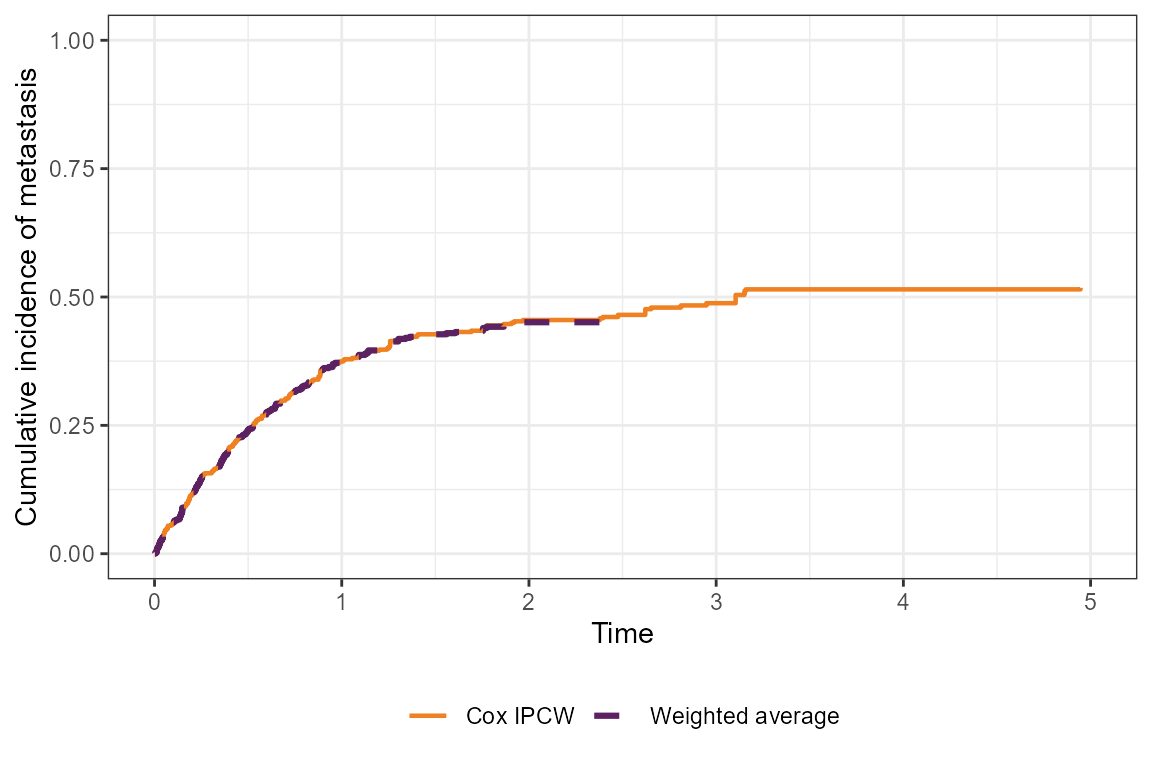
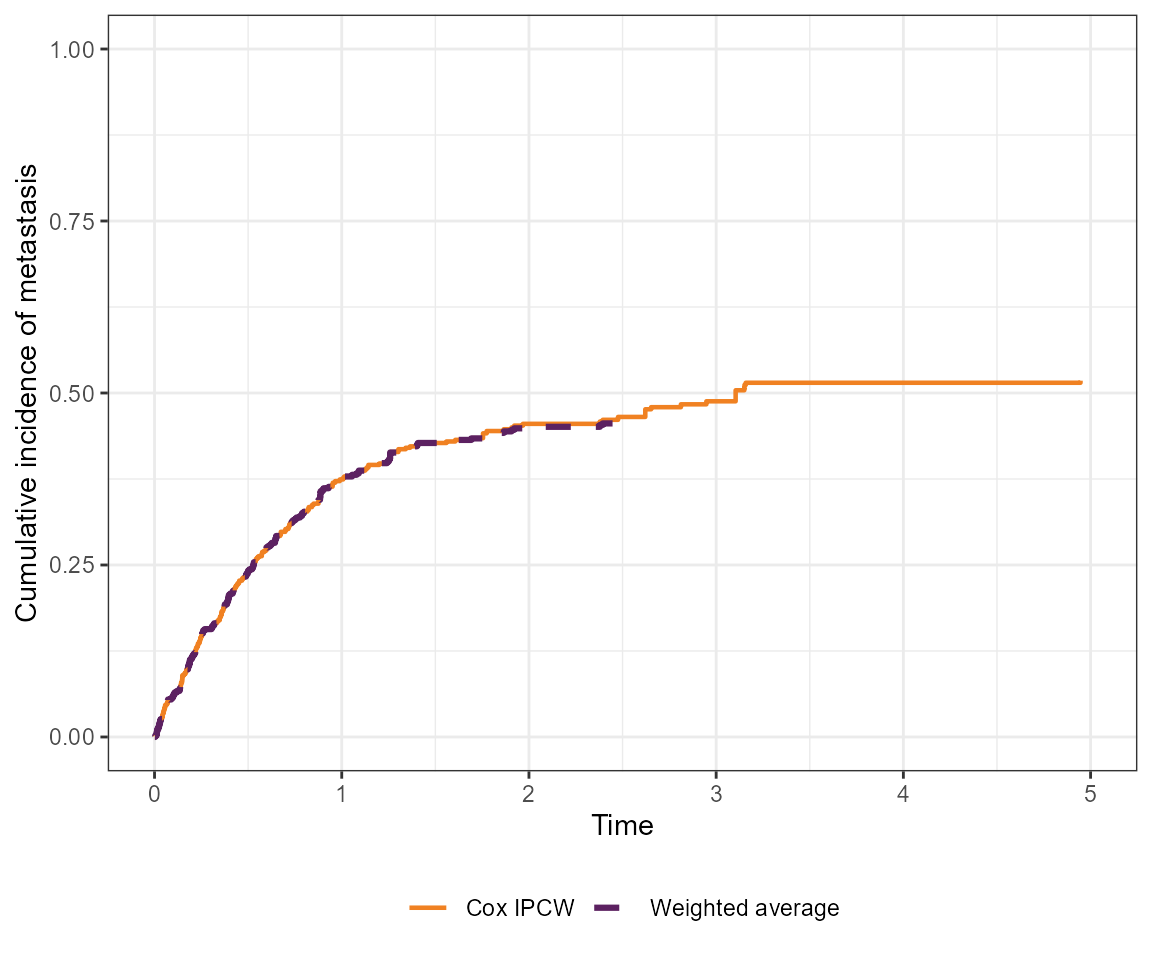
Anne's updates

diff --git a/docs/articles/competing-risks-guided-example.html b/docs/articles/competing-risks-guided-example.html
@@ -184,14 +184,14 @@ to use stratified (non-parametric) weights (when
 cumulative incidence curves in this example.</p>
 </div>
 <div class="section level2">
-<h2 id="fine-gray-ipcw-regression">Fine-Gray IPCW regression<a class="anchor" aria-label="anchor" href="#fine-gray-ipcw-regression"></a>
+<h2 id="fine-gray-regression">Fine-Gray regression<a class="anchor" aria-label="anchor" href="#fine-gray-regression"></a>
 </h2>
 <p>Next, estimate the subdistribution hazard ratio (SHR) for the
 association between baseline PSA and metastasis, accounting for the
 competing risk of death and dependent censoring.</p>
 <p>The <code><a href="../reference/fg_split_cr.html">fg_split_cr()</a></code> function splits the data into
 event-specific datasets, and the <code><a href="../reference/add_fg_weights_cr.html">add_fg_weights_cr()</a></code>
-function computes IPCW weights for Fine-Gray regression. The
+function computes weights for Fine-Gray regression. The
 <code><a href="../reference/fg_weighted_cr.html">fg_weighted_cr()</a></code> function fits a weighted Fine-Gray
 model.</p>
 <div class="sourceCode" id="cb6"><pre class="downlit sourceCode r">
@@ -220,7 +220,7 @@ model.</p>
 <span>  <span class="op">)</span> <span class="op">|&gt;</span> </span>
 <span>  <span class="fu"><a href="https://gt.rstudio.com/reference/gt.html" class="external-link">gt</a></span><span class="op">(</span><span class="op">)</span> <span class="op">|&gt;</span> </span>
 <span>  <span class="fu"><a href="https://gt.rstudio.com/reference/fmt_number.html" class="external-link">fmt_number</a></span><span class="op">(</span>columns <span class="op">=</span> <span class="st">"Estimate"</span>, decimals <span class="op">=</span> <span class="fl">2</span><span class="op">)</span> <span class="op">|&gt;</span></span>
-<span>  <span class="fu"><a href="https://gt.rstudio.com/reference/tab_header.html" class="external-link">tab_header</a></span><span class="op">(</span><span class="st">"IPCW Fine-gray regression results for the association between PSA and metastasis, using both stratified and Cox IPCW weights"</span><span class="op">)</span> </span></code></pre></div>
+<span>  <span class="fu"><a href="https://gt.rstudio.com/reference/tab_header.html" class="external-link">tab_header</a></span><span class="op">(</span><span class="st">"Fine-gray regression results for the association between PSA and metastasis, using both stratified and Cox weights"</span><span class="op">)</span> </span></code></pre></div>
 <div id="gqdbmcporn" style="padding-left:0px;padding-right:0px;padding-top:10px;padding-bottom:10px;overflow-x:auto;overflow-y:auto;width:auto;height:auto;">
 <style>#gqdbmcporn table {
   font-family: system-ui, 'Segoe UI', Roboto, Helvetica, Arial, sans-serif, 'Apple Color Emoji', 'Segoe UI Emoji', 'Segoe UI Symbol', 'Noto Color Emoji';
@@ -673,7 +673,7 @@ model.</p>
 <table class="table gt_table" data-quarto-disable-processing="false" data-quarto-bootstrap="false">
 <thead>
 <tr class="gt_heading">
-<td colspan="3" class="gt_heading gt_title gt_font_normal gt_bottom_border" style>IPCW Fine-gray regression results for the association between PSA and metastasis, using both stratified and Cox IPCW weights</td>
+<td colspan="3" class="gt_heading gt_title gt_font_normal gt_bottom_border" style>Fine-gray regression results for the association between PSA and metastasis, using both stratified and Cox weights</td>
     </tr>
 <tr class="gt_col_headings">
 <th class="gt_col_heading gt_columns_bottom_border gt_left" rowspan="1" colspan="1" scope="col" id="Method">Method</th>
@@ -769,7 +769,7 @@ interval for each column of a matrix of bootstrap estimates, mirroring
 <span>    locations <span class="op">=</span> <span class="fu"><a href="https://gt.rstudio.com/reference/cells_column_labels.html" class="external-link">cells_column_labels</a></span><span class="op">(</span>columns <span class="op">=</span> <span class="fu"><a href="https://rdrr.io/r/base/c.html" class="external-link">c</a></span><span class="op">(</span><span class="va">Lower_95pct_PI</span>, <span class="va">Upper_95pct_PI</span><span class="op">)</span><span class="op">)</span></span>
 <span>  <span class="op">)</span> <span class="op">|&gt;</span> </span>
 <span>  <span class="fu"><a href="https://gt.rstudio.com/reference/tab_header.html" class="external-link">tab_header</a></span><span class="op">(</span></span>
-<span>    <span class="st">"IPCW Fine-Gray regression results for the association between PSA quartile and metastasis, using stratified IPCW weights"</span></span>
+<span>    <span class="st">"Fine-Gray regression results for the association between PSA and metastasis, using stratified weights"</span></span>
 <span>  <span class="op">)</span></span></code></pre></div>
 <div id="auiemtckto" style="padding-left:0px;padding-right:0px;padding-top:10px;padding-bottom:10px;overflow-x:auto;overflow-y:auto;width:auto;height:auto;">
 <style>#auiemtckto table {
@@ -1223,7 +1223,7 @@ interval for each column of a matrix of bootstrap estimates, mirroring
 <table class="table gt_table" data-quarto-disable-processing="false" data-quarto-bootstrap="false">
 <thead>
 <tr class="gt_heading">
-<td colspan="4" class="gt_heading gt_title gt_font_normal gt_bottom_border" style>IPCW Fine-Gray regression results for the association between PSA quartile and metastasis, using stratified IPCW weights</td>
+<td colspan="4" class="gt_heading gt_title gt_font_normal gt_bottom_border" style>Fine-Gray regression results for the association between PSA and metastasis, using stratified weights</td>
     </tr>
 <tr class="gt_col_headings">
 <th class="gt_col_heading gt_columns_bottom_border gt_left" rowspan="1" colspan="1" scope="col" id="Effect">Effect</th>

diff --git a/docs/reference/fg_weighted_cr.html b/docs/reference/fg_weighted_cr.html
@@ -1,9 +1,9 @@
 <!DOCTYPE html>
-<!-- Generated by pkgdown: do not edit by hand --><html lang="en"><head><meta http-equiv="Content-Type" content="text/html; charset=UTF-8"><meta charset="utf-8"><meta http-equiv="X-UA-Compatible" content="IE=edge"><meta name="viewport" content="width=device-width, initial-scale=1, shrink-to-fit=no"><title>IPCW-weighted Fine-Gray sub-distribution hazard regression — fg_weighted_cr • ipcw</title><script src="../deps/jquery-3.6.0/jquery-3.6.0.min.js"></script><meta name="viewport" content="width=device-width, initial-scale=1, shrink-to-fit=no"><link href="../deps/bootstrap-5.3.1/bootstrap.min.css" rel="stylesheet"><script src="../deps/bootstrap-5.3.1/bootstrap.bundle.min.js"></script><link href="../deps/font-awesome-6.5.2/css/all.min.css" rel="stylesheet"><link href="../deps/font-awesome-6.5.2/css/v4-shims.min.css" rel="stylesheet"><script src="../deps/headroom-0.11.0/headroom.min.js"></script><script src="../deps/headroom-0.11.0/jQuery.headroom.min.js"></script><script src="../deps/bootstrap-toc-1.0.1/bootstrap-toc.min.js"></script><script src="../deps/clipboard.js-2.0.11/clipboard.min.js"></script><script src="../deps/search-1.0.0/autocomplete.jquery.min.js"></script><script src="../deps/search-1.0.0/fuse.min.js"></script><script src="../deps/search-1.0.0/mark.min.js"></script><!-- pkgdown --><script src="../pkgdown.js"></script><meta property="og:title" content="IPCW-weighted Fine-Gray sub-distribution hazard regression — fg_weighted_cr"><meta name="description" content="Fits a Fine-Gray model on the Fine-Gray split dataset, weighting by the
-inverse of the probability of remaining uncensored after the competing event
+<!-- Generated by pkgdown: do not edit by hand --><html lang="en"><head><meta http-equiv="Content-Type" content="text/html; charset=UTF-8"><meta charset="utf-8"><meta http-equiv="X-UA-Compatible" content="IE=edge"><meta name="viewport" content="width=device-width, initial-scale=1, shrink-to-fit=no"><title>FG-weighted Fine-Gray sub-distribution hazard regression — fg_weighted_cr • ipcw</title><script src="../deps/jquery-3.6.0/jquery-3.6.0.min.js"></script><meta name="viewport" content="width=device-width, initial-scale=1, shrink-to-fit=no"><link href="../deps/bootstrap-5.3.1/bootstrap.min.css" rel="stylesheet"><script src="../deps/bootstrap-5.3.1/bootstrap.bundle.min.js"></script><link href="../deps/font-awesome-6.5.2/css/all.min.css" rel="stylesheet"><link href="../deps/font-awesome-6.5.2/css/v4-shims.min.css" rel="stylesheet"><script src="../deps/headroom-0.11.0/headroom.min.js"></script><script src="../deps/headroom-0.11.0/jQuery.headroom.min.js"></script><script src="../deps/bootstrap-toc-1.0.1/bootstrap-toc.min.js"></script><script src="../deps/clipboard.js-2.0.11/clipboard.min.js"></script><script src="../deps/search-1.0.0/autocomplete.jquery.min.js"></script><script src="../deps/search-1.0.0/fuse.min.js"></script><script src="../deps/search-1.0.0/mark.min.js"></script><!-- pkgdown --><script src="../pkgdown.js"></script><meta property="og:title" content="FG-weighted Fine-Gray sub-distribution hazard regression — fg_weighted_cr"><meta name="description" content="Fits a Fine-Gray model on the Fine-Gray split dataset, weighting by the
+probability of remaining uncensored after the competing event
 (p_notcens_after_death), and uses a robust sandwich variance via
 cluster(id)."><meta property="og:description" content="Fits a Fine-Gray model on the Fine-Gray split dataset, weighting by the
-inverse of the probability of remaining uncensored after the competing event
+probability of remaining uncensored after the competing event
 (p_notcens_after_death), and uses a robust sandwich variance via
 cluster(id)."></head><body>
     <a href="#main" class="visually-hidden-focusable">Skip to contents</a>
@@ -40,14 +40,14 @@ cluster(id)."></head><body>
 <div class="row">
   <main id="main" class="col-md-9"><div class="page-header">
 
-      <h1>IPCW-weighted Fine-Gray sub-distribution hazard regression</h1>
+      <h1>FG-weighted Fine-Gray sub-distribution hazard regression</h1>
       <small class="dont-index">Source: <a href="https://github.com/zabore/ipcw/blob/HEAD/R/competing-risks.R" class="external-link"><code>R/competing-risks.R</code></a></small>
       <div class="d-none name"><code>fg_weighted_cr.Rd</code></div>
     </div>
 
     <div class="ref-description section level2">
     <p>Fits a Fine-Gray model on the Fine-Gray split dataset, weighting by the
-inverse of the probability of remaining uncensored after the competing event
+probability of remaining uncensored after the competing event
 (<code>p_notcens_after_death</code>), and uses a robust sandwich variance via
 <code>cluster(id)</code>.</p>
     </div>

diff --git a/docs/reference/index.html b/docs/reference/index.html
@@ -173,14 +173,14 @@
           <code><a href="fg_split_cr.html">fg_split_cr()</a></code>
 
         </dt>
-        <dd>Prepare long-format data for Fine-Gray weighted regression</dd>
+        <dd>Prepare long-format data for Fine-Gray regression</dd>
 
         <dt>
 
           <code><a href="add_fg_weights_cr.html">add_fg_weights_cr()</a></code>
 
         </dt>
-        <dd>Add Fine-Gray IPCW weights to Fine-Gray split data</dd>
+        <dd>Add Fine-Gray weights to Fine-Gray split data</dd>
 
         <dt>
 
@@ -194,7 +194,7 @@
           <code><a href="fg_weighted_cr.html">fg_weighted_cr()</a></code>
 
         </dt>
-        <dd>IPCW-weighted Fine-Gray sub-distribution hazard regression</dd>
+        <dd>FG-weighted Fine-Gray sub-distribution hazard regression</dd>
 
         <dt>
 
@@ -222,7 +222,7 @@
           <code><a href="fg_strat_boot.html">fg_strat_boot</a></code>
 
         </dt>
-        <dd>Bootstrap Fine-Gray coefficients from stratified IPCW weights</dd>
+        <dd>Bootstrap Fine-Gray coefficients from stratified FG weights</dd>
       </dl></div>
   </main><aside class="col-md-3"><nav id="toc" aria-label="Table of contents"><h2>On this page</h2>
     </nav></aside></div>

diff --git a/docs/reference/sim_data_CR.html b/docs/reference/sim_data_CR.html
@@ -1,9 +1,9 @@
 <!DOCTYPE html>
 <!-- Generated by pkgdown: do not edit by hand --><html lang="en"><head><meta http-equiv="Content-Type" content="text/html; charset=UTF-8"><meta charset="utf-8"><meta http-equiv="X-UA-Compatible" content="IE=edge"><meta name="viewport" content="width=device-width, initial-scale=1, shrink-to-fit=no"><title>Simulate competing risks survival data — sim_data_cr • ipcw</title><script src="../deps/jquery-3.6.0/jquery-3.6.0.min.js"></script><meta name="viewport" content="width=device-width, initial-scale=1, shrink-to-fit=no"><link href="../deps/bootstrap-5.3.1/bootstrap.min.css" rel="stylesheet"><script src="../deps/bootstrap-5.3.1/bootstrap.bundle.min.js"></script><link href="../deps/font-awesome-6.5.2/css/all.min.css" rel="stylesheet"><link href="../deps/font-awesome-6.5.2/css/v4-shims.min.css" rel="stylesheet"><script src="../deps/headroom-0.11.0/headroom.min.js"></script><script src="../deps/headroom-0.11.0/jQuery.headroom.min.js"></script><script src="../deps/bootstrap-toc-1.0.1/bootstrap-toc.min.js"></script><script src="../deps/clipboard.js-2.0.11/clipboard.min.js"></script><script src="../deps/search-1.0.0/autocomplete.jquery.min.js"></script><script src="../deps/search-1.0.0/fuse.min.js"></script><script src="../deps/search-1.0.0/mark.min.js"></script><!-- pkgdown --><script src="../pkgdown.js"></script><meta property="og:title" content="Simulate competing risks survival data — sim_data_cr"><meta name="description" content="Generates a dataset with two competing events under a sub-distribution
 hazard model parameterized by a four-level baseline covariate z1.
-Optionally adds independent or covariate-dependent administrative censoring."><meta property="og:description" content="Generates a dataset with two competing events under a sub-distribution
+Optionally adds independent or covariate-dependent censoring."><meta property="og:description" content="Generates a dataset with two competing events under a sub-distribution
 hazard model parameterized by a four-level baseline covariate z1.
-Optionally adds independent or covariate-dependent administrative censoring."></head><body>
+Optionally adds independent or covariate-dependent censoring."></head><body>
     <a href="#main" class="visually-hidden-focusable">Skip to contents</a>
 
 
@@ -46,7 +46,7 @@ Optionally adds independent or covariate-dependent administrative censoring."></
     <div class="ref-description section level2">
     <p>Generates a dataset with two competing events under a sub-distribution
 hazard model parameterized by a four-level baseline covariate <code>z1</code>.
-Optionally adds independent or covariate-dependent administrative censoring.</p>
+Optionally adds independent or covariate-dependent censoring.</p>
     </div>
 
     <div class="section level2">

diff --git a/docs/reference/add_fg_weights_cr.html b/docs/reference/add_fg_weights_cr.html
@@ -1,5 +1,5 @@
 <!DOCTYPE html>
-<!-- Generated by pkgdown: do not edit by hand --><html lang="en"><head><meta http-equiv="Content-Type" content="text/html; charset=UTF-8"><meta charset="utf-8"><meta http-equiv="X-UA-Compatible" content="IE=edge"><meta name="viewport" content="width=device-width, initial-scale=1, shrink-to-fit=no"><title>Add Fine-Gray IPCW weights to Fine-Gray split data — add_fg_weights_cr • ipcw</title><script src="../deps/jquery-3.6.0/jquery-3.6.0.min.js"></script><meta name="viewport" content="width=device-width, initial-scale=1, shrink-to-fit=no"><link href="../deps/bootstrap-5.3.1/bootstrap.min.css" rel="stylesheet"><script src="../deps/bootstrap-5.3.1/bootstrap.bundle.min.js"></script><link href="../deps/font-awesome-6.5.2/css/all.min.css" rel="stylesheet"><link href="../deps/font-awesome-6.5.2/css/v4-shims.min.css" rel="stylesheet"><script src="../deps/headroom-0.11.0/headroom.min.js"></script><script src="../deps/headroom-0.11.0/jQuery.headroom.min.js"></script><script src="../deps/bootstrap-toc-1.0.1/bootstrap-toc.min.js"></script><script src="../deps/clipboard.js-2.0.11/clipboard.min.js"></script><script src="../deps/search-1.0.0/autocomplete.jquery.min.js"></script><script src="../deps/search-1.0.0/fuse.min.js"></script><script src="../deps/search-1.0.0/mark.min.js"></script><!-- pkgdown --><script src="../pkgdown.js"></script><meta property="og:title" content="Add Fine-Gray IPCW weights to Fine-Gray split data — add_fg_weights_cr"><meta name="description" content="Computes the probability of remaining uncensored after a type-2 event
+<!-- Generated by pkgdown: do not edit by hand --><html lang="en"><head><meta http-equiv="Content-Type" content="text/html; charset=UTF-8"><meta charset="utf-8"><meta http-equiv="X-UA-Compatible" content="IE=edge"><meta name="viewport" content="width=device-width, initial-scale=1, shrink-to-fit=no"><title>Add Fine-Gray weights to Fine-Gray split data — add_fg_weights_cr • ipcw</title><script src="../deps/jquery-3.6.0/jquery-3.6.0.min.js"></script><meta name="viewport" content="width=device-width, initial-scale=1, shrink-to-fit=no"><link href="../deps/bootstrap-5.3.1/bootstrap.min.css" rel="stylesheet"><script src="../deps/bootstrap-5.3.1/bootstrap.bundle.min.js"></script><link href="../deps/font-awesome-6.5.2/css/all.min.css" rel="stylesheet"><link href="../deps/font-awesome-6.5.2/css/v4-shims.min.css" rel="stylesheet"><script src="../deps/headroom-0.11.0/headroom.min.js"></script><script src="../deps/headroom-0.11.0/jQuery.headroom.min.js"></script><script src="../deps/bootstrap-toc-1.0.1/bootstrap-toc.min.js"></script><script src="../deps/clipboard.js-2.0.11/clipboard.min.js"></script><script src="../deps/search-1.0.0/autocomplete.jquery.min.js"></script><script src="../deps/search-1.0.0/fuse.min.js"></script><script src="../deps/search-1.0.0/mark.min.js"></script><!-- pkgdown --><script src="../pkgdown.js"></script><meta property="og:title" content="Add Fine-Gray weights to Fine-Gray split data — add_fg_weights_cr"><meta name="description" content="Computes the probability of remaining uncensored after a type-2 event
 and appends it as column p_notcens_after_death."><meta property="og:description" content="Computes the probability of remaining uncensored after a type-2 event
 and appends it as column p_notcens_after_death."></head><body>
     <a href="#main" class="visually-hidden-focusable">Skip to contents</a>
@@ -36,7 +36,7 @@ and appends it as column p_notcens_after_death."></head><body>
 <div class="row">
   <main id="main" class="col-md-9"><div class="page-header">
 
-      <h1>Add Fine-Gray IPCW weights to Fine-Gray split data</h1>
+      <h1>Add Fine-Gray weights to Fine-Gray split data</h1>
       <small class="dont-index">Source: <a href="https://github.com/zabore/ipcw/blob/HEAD/R/competing-risks.R" class="external-link"><code>R/competing-risks.R</code></a></small>
       <div class="d-none name"><code>add_fg_weights_cr.Rd</code></div>
     </div>

diff --git a/docs/reference/fg_split_cr.html b/docs/reference/fg_split_cr.html
@@ -1,5 +1,5 @@
 <!DOCTYPE html>
-<!-- Generated by pkgdown: do not edit by hand --><html lang="en"><head><meta http-equiv="Content-Type" content="text/html; charset=UTF-8"><meta charset="utf-8"><meta http-equiv="X-UA-Compatible" content="IE=edge"><meta name="viewport" content="width=device-width, initial-scale=1, shrink-to-fit=no"><title>Prepare long-format data for Fine-Gray weighted regression — fg_split_cr • ipcw</title><script src="../deps/jquery-3.6.0/jquery-3.6.0.min.js"></script><meta name="viewport" content="width=device-width, initial-scale=1, shrink-to-fit=no"><link href="../deps/bootstrap-5.3.1/bootstrap.min.css" rel="stylesheet"><script src="../deps/bootstrap-5.3.1/bootstrap.bundle.min.js"></script><link href="../deps/font-awesome-6.5.2/css/all.min.css" rel="stylesheet"><link href="../deps/font-awesome-6.5.2/css/v4-shims.min.css" rel="stylesheet"><script src="../deps/headroom-0.11.0/headroom.min.js"></script><script src="../deps/headroom-0.11.0/jQuery.headroom.min.js"></script><script src="../deps/bootstrap-toc-1.0.1/bootstrap-toc.min.js"></script><script src="../deps/clipboard.js-2.0.11/clipboard.min.js"></script><script src="../deps/search-1.0.0/autocomplete.jquery.min.js"></script><script src="../deps/search-1.0.0/fuse.min.js"></script><script src="../deps/search-1.0.0/mark.min.js"></script><!-- pkgdown --><script src="../pkgdown.js"></script><meta property="og:title" content="Prepare long-format data for Fine-Gray weighted regression — fg_split_cr"><meta name="description" content="After a type-2 event, subjects are artificially re-entered into the risk set
+<!-- Generated by pkgdown: do not edit by hand --><html lang="en"><head><meta http-equiv="Content-Type" content="text/html; charset=UTF-8"><meta charset="utf-8"><meta http-equiv="X-UA-Compatible" content="IE=edge"><meta name="viewport" content="width=device-width, initial-scale=1, shrink-to-fit=no"><title>Prepare long-format data for Fine-Gray regression — fg_split_cr • ipcw</title><script src="../deps/jquery-3.6.0/jquery-3.6.0.min.js"></script><meta name="viewport" content="width=device-width, initial-scale=1, shrink-to-fit=no"><link href="../deps/bootstrap-5.3.1/bootstrap.min.css" rel="stylesheet"><script src="../deps/bootstrap-5.3.1/bootstrap.bundle.min.js"></script><link href="../deps/font-awesome-6.5.2/css/all.min.css" rel="stylesheet"><link href="../deps/font-awesome-6.5.2/css/v4-shims.min.css" rel="stylesheet"><script src="../deps/headroom-0.11.0/headroom.min.js"></script><script src="../deps/headroom-0.11.0/jQuery.headroom.min.js"></script><script src="../deps/bootstrap-toc-1.0.1/bootstrap-toc.min.js"></script><script src="../deps/clipboard.js-2.0.11/clipboard.min.js"></script><script src="../deps/search-1.0.0/autocomplete.jquery.min.js"></script><script src="../deps/search-1.0.0/fuse.min.js"></script><script src="../deps/search-1.0.0/mark.min.js"></script><!-- pkgdown --><script src="../pkgdown.js"></script><meta property="og:title" content="Prepare long-format data for Fine-Gray regression — fg_split_cr"><meta name="description" content="After a type-2 event, subjects are artificially re-entered into the risk set
 (as in the Fine-Gray sub-distribution hazard model). This function appends
 those additional rows, split at every censoring time."><meta property="og:description" content="After a type-2 event, subjects are artificially re-entered into the risk set
 (as in the Fine-Gray sub-distribution hazard model). This function appends
@@ -38,7 +38,7 @@ those additional rows, split at every censoring time."></head><body>
 <div class="row">
   <main id="main" class="col-md-9"><div class="page-header">
 
-      <h1>Prepare long-format data for Fine-Gray weighted regression</h1>
+      <h1>Prepare long-format data for Fine-Gray regression</h1>
       <small class="dont-index">Source: <a href="https://github.com/zabore/ipcw/blob/HEAD/R/competing-risks.R" class="external-link"><code>R/competing-risks.R</code></a></small>
       <div class="d-none name"><code>fg_split_cr.Rd</code></div>
     </div>

diff --git a/docs/reference/fg_strat_boot.html b/docs/reference/fg_strat_boot.html
@@ -1,5 +1,5 @@
 <!DOCTYPE html>
-<!-- Generated by pkgdown: do not edit by hand --><html lang="en"><head><meta http-equiv="Content-Type" content="text/html; charset=UTF-8"><meta charset="utf-8"><meta http-equiv="X-UA-Compatible" content="IE=edge"><meta name="viewport" content="width=device-width, initial-scale=1, shrink-to-fit=no"><title>Bootstrap Fine-Gray coefficients from stratified IPCW weights — fg_strat_boot • ipcw</title><script src="../deps/jquery-3.6.0/jquery-3.6.0.min.js"></script><meta name="viewport" content="width=device-width, initial-scale=1, shrink-to-fit=no"><link href="../deps/bootstrap-5.3.1/bootstrap.min.css" rel="stylesheet"><script src="../deps/bootstrap-5.3.1/bootstrap.bundle.min.js"></script><link href="../deps/font-awesome-6.5.2/css/all.min.css" rel="stylesheet"><link href="../deps/font-awesome-6.5.2/css/v4-shims.min.css" rel="stylesheet"><script src="../deps/headroom-0.11.0/headroom.min.js"></script><script src="../deps/headroom-0.11.0/jQuery.headroom.min.js"></script><script src="../deps/bootstrap-toc-1.0.1/bootstrap-toc.min.js"></script><script src="../deps/clipboard.js-2.0.11/clipboard.min.js"></script><script src="../deps/search-1.0.0/autocomplete.jquery.min.js"></script><script src="../deps/search-1.0.0/fuse.min.js"></script><script src="../deps/search-1.0.0/mark.min.js"></script><!-- pkgdown --><script src="../pkgdown.js"></script><meta property="og:title" content="Bootstrap Fine-Gray coefficients from stratified IPCW weights — fg_strat_boot"><meta name="description" content="A 500-by-3 matrix of bootstrap log sub-distribution hazard ratio estimates
+<!-- Generated by pkgdown: do not edit by hand --><html lang="en"><head><meta http-equiv="Content-Type" content="text/html; charset=UTF-8"><meta charset="utf-8"><meta http-equiv="X-UA-Compatible" content="IE=edge"><meta name="viewport" content="width=device-width, initial-scale=1, shrink-to-fit=no"><title>Bootstrap Fine-Gray coefficients from stratified FG weights — fg_strat_boot • ipcw</title><script src="../deps/jquery-3.6.0/jquery-3.6.0.min.js"></script><meta name="viewport" content="width=device-width, initial-scale=1, shrink-to-fit=no"><link href="../deps/bootstrap-5.3.1/bootstrap.min.css" rel="stylesheet"><script src="../deps/bootstrap-5.3.1/bootstrap.bundle.min.js"></script><link href="../deps/font-awesome-6.5.2/css/all.min.css" rel="stylesheet"><link href="../deps/font-awesome-6.5.2/css/v4-shims.min.css" rel="stylesheet"><script src="../deps/headroom-0.11.0/headroom.min.js"></script><script src="../deps/headroom-0.11.0/jQuery.headroom.min.js"></script><script src="../deps/bootstrap-toc-1.0.1/bootstrap-toc.min.js"></script><script src="../deps/clipboard.js-2.0.11/clipboard.min.js"></script><script src="../deps/search-1.0.0/autocomplete.jquery.min.js"></script><script src="../deps/search-1.0.0/fuse.min.js"></script><script src="../deps/search-1.0.0/mark.min.js"></script><!-- pkgdown --><script src="../pkgdown.js"></script><meta property="og:title" content="Bootstrap Fine-Gray coefficients from stratified FG weights — fg_strat_boot"><meta name="description" content="A 500-by-3 matrix of bootstrap log sub-distribution hazard ratio estimates
 for the effect of baseline PSA quartile (z1) on metastasis, each row
 obtained by fitting a stratified-weight Fine-Gray model to one bootstrap
 sample of the competing risks guided example data. Provided as package
@@ -46,7 +46,7 @@ confidence intervals."></head><body>
 <div class="row">
   <main id="main" class="col-md-9"><div class="page-header">
 
-      <h1>Bootstrap Fine-Gray coefficients from stratified IPCW weights</h1>
+      <h1>Bootstrap Fine-Gray coefficients from stratified FG weights</h1>
       <small class="dont-index">Source: <a href="https://github.com/zabore/ipcw/blob/HEAD/R/data.R" class="external-link"><code>R/data.R</code></a></small>
       <div class="d-none name"><code>fg_strat_boot.Rd</code></div>
     </div>

diff --git a/docs/articles/competing-risks-guided-example.md b/docs/articles/competing-risks-guided-example.md
@@ -125,7 +125,7 @@ ggplot(to_plot, aes(x = time, y = est,
 The two sets of weights result in nearly identical weighted cumulative
 incidence curves in this example.
 
-## Fine-Gray IPCW regression
+## Fine-Gray regression
 
 Next, estimate the subdistribution hazard ratio (SHR) for the
 association between baseline PSA and metastasis, accounting for the
@@ -135,7 +135,7 @@ The
 [`fg_split_cr()`](https://www.emilyzabor.com/ipcw/reference/fg_split_cr.md)
 function splits the data into event-specific datasets, and the
 [`add_fg_weights_cr()`](https://www.emilyzabor.com/ipcw/reference/add_fg_weights_cr.md)
-function computes IPCW weights for Fine-Gray regression. The
+function computes weights for Fine-Gray regression. The
 [`fg_weighted_cr()`](https://www.emilyzabor.com/ipcw/reference/fg_weighted_cr.md)
 function fits a weighted Fine-Gray model.
 
@@ -166,10 +166,10 @@ tibble(
   ) |> 
   gt() |> 
   fmt_number(columns = "Estimate", decimals = 2) |>
-  tab_header("IPCW Fine-gray regression results for the association between PSA and metastasis, using both stratified and Cox IPCW weights") 
+  tab_header("Fine-gray regression results for the association between PSA and metastasis, using both stratified and Cox weights") 
 ```
 
-| IPCW Fine-gray regression results for the association between PSA and metastasis, using both stratified and Cox IPCW weights |  |  |
+| Fine-gray regression results for the association between PSA and metastasis, using both stratified and Cox weights |  |  |
 |----|----|----|
 | Method | Effect | Estimate |
 | Fine-Gray stratified | PSA Q2 vs Q1 | 1.71 |
@@ -242,11 +242,11 @@ result_tab |>
     locations = cells_column_labels(columns = c(Lower_95pct_PI, Upper_95pct_PI))
   ) |> 
   tab_header(
-    "IPCW Fine-Gray regression results for the association between PSA quartile and metastasis, using stratified IPCW weights"
+    "Fine-Gray regression results for the association between PSA and metastasis, using stratified weights"
   )
 ```
 
-| IPCW Fine-Gray regression results for the association between PSA quartile and metastasis, using stratified IPCW weights |  |  |  |
+| Fine-Gray regression results for the association between PSA and metastasis, using stratified weights |  |  |  |
 |----|----|----|----|
 | Effect | Estimate | Lower 95% PI¹ | Upper 95% PI¹ |
 | PSA Q2 vs Q1 | 1.71 | 1.02 | 3.11 |

diff --git a/docs/reference/index.md b/docs/reference/index.md
@@ -47,13 +47,13 @@ estimation, cumulative incidence estimation, and Fine-Gray regression.
 - [`cuminc_ipcw_cr()`](https://www.emilyzabor.com/ipcw/reference/cuminc_ipcw_cr.md)
   : Cox model IPCW cumulative incidence estimate
 - [`fg_split_cr()`](https://www.emilyzabor.com/ipcw/reference/fg_split_cr.md)
-  : Prepare long-format data for Fine-Gray weighted regression
+  : Prepare long-format data for Fine-Gray regression
 - [`add_fg_weights_cr()`](https://www.emilyzabor.com/ipcw/reference/add_fg_weights_cr.md)
-  : Add Fine-Gray IPCW weights to Fine-Gray split data
+  : Add Fine-Gray weights to Fine-Gray split data
 - [`fg_naive_cr()`](https://www.emilyzabor.com/ipcw/reference/fg_naive_cr.md)
   : Naive Fine-Gray sub-distribution hazard regression
 - [`fg_weighted_cr()`](https://www.emilyzabor.com/ipcw/reference/fg_weighted_cr.md)
-  : IPCW-weighted Fine-Gray sub-distribution hazard regression
+  : FG-weighted Fine-Gray sub-distribution hazard regression
 - [`get_ipcw_boot_cr()`](https://www.emilyzabor.com/ipcw/reference/get_ipcw_boot_cr.md)
   : Bootstrap IPCW weighted data for competing risks survival analysis
 - [`get_boot_pci_cr()`](https://www.emilyzabor.com/ipcw/reference/get_boot_pci_cr.md)
@@ -63,4 +63,4 @@ estimation, cumulative incidence estimation, and Fine-Gray regression.
   : Plot IPCW cumulative incidence with bootstrap percentile confidence
   intervals
 - [`fg_strat_boot`](https://www.emilyzabor.com/ipcw/reference/fg_strat_boot.md)
-  : Bootstrap Fine-Gray coefficients from stratified IPCW weights
+  : Bootstrap Fine-Gray coefficients from stratified FG weights

diff --git a/docs/reference/fg_weighted_cr.md b/docs/reference/fg_weighted_cr.md
@@ -1,8 +1,8 @@
-# IPCW-weighted Fine-Gray sub-distribution hazard regression
+# FG-weighted Fine-Gray sub-distribution hazard regression
 
 Fits a Fine-Gray model on the Fine-Gray split dataset, weighting by the
-inverse of the probability of remaining uncensored after the competing
-event (`p_notcens_after_death`), and uses a robust sandwich variance via
+probability of remaining uncensored after the competing event
+(`p_notcens_after_death`), and uses a robust sandwich variance via
 `cluster(id)`.
 
 ## Usage

diff --git a/docs/reference/sim_data_CR.md b/docs/reference/sim_data_CR.md
@@ -2,8 +2,7 @@
 
 Generates a dataset with two competing events under a sub-distribution
 hazard model parameterized by a four-level baseline covariate `z1`.
-Optionally adds independent or covariate-dependent administrative
-censoring.
+Optionally adds independent or covariate-dependent censoring.
 
 ## Usage
 

diff --git a/docs/reference/add_fg_weights_cr.md b/docs/reference/add_fg_weights_cr.md
@@ -1,4 +1,4 @@
-# Add Fine-Gray IPCW weights to Fine-Gray split data
+# Add Fine-Gray weights to Fine-Gray split data
 
 Computes the probability of remaining uncensored after a type-2 event
 and appends it as column `p_notcens_after_death`.